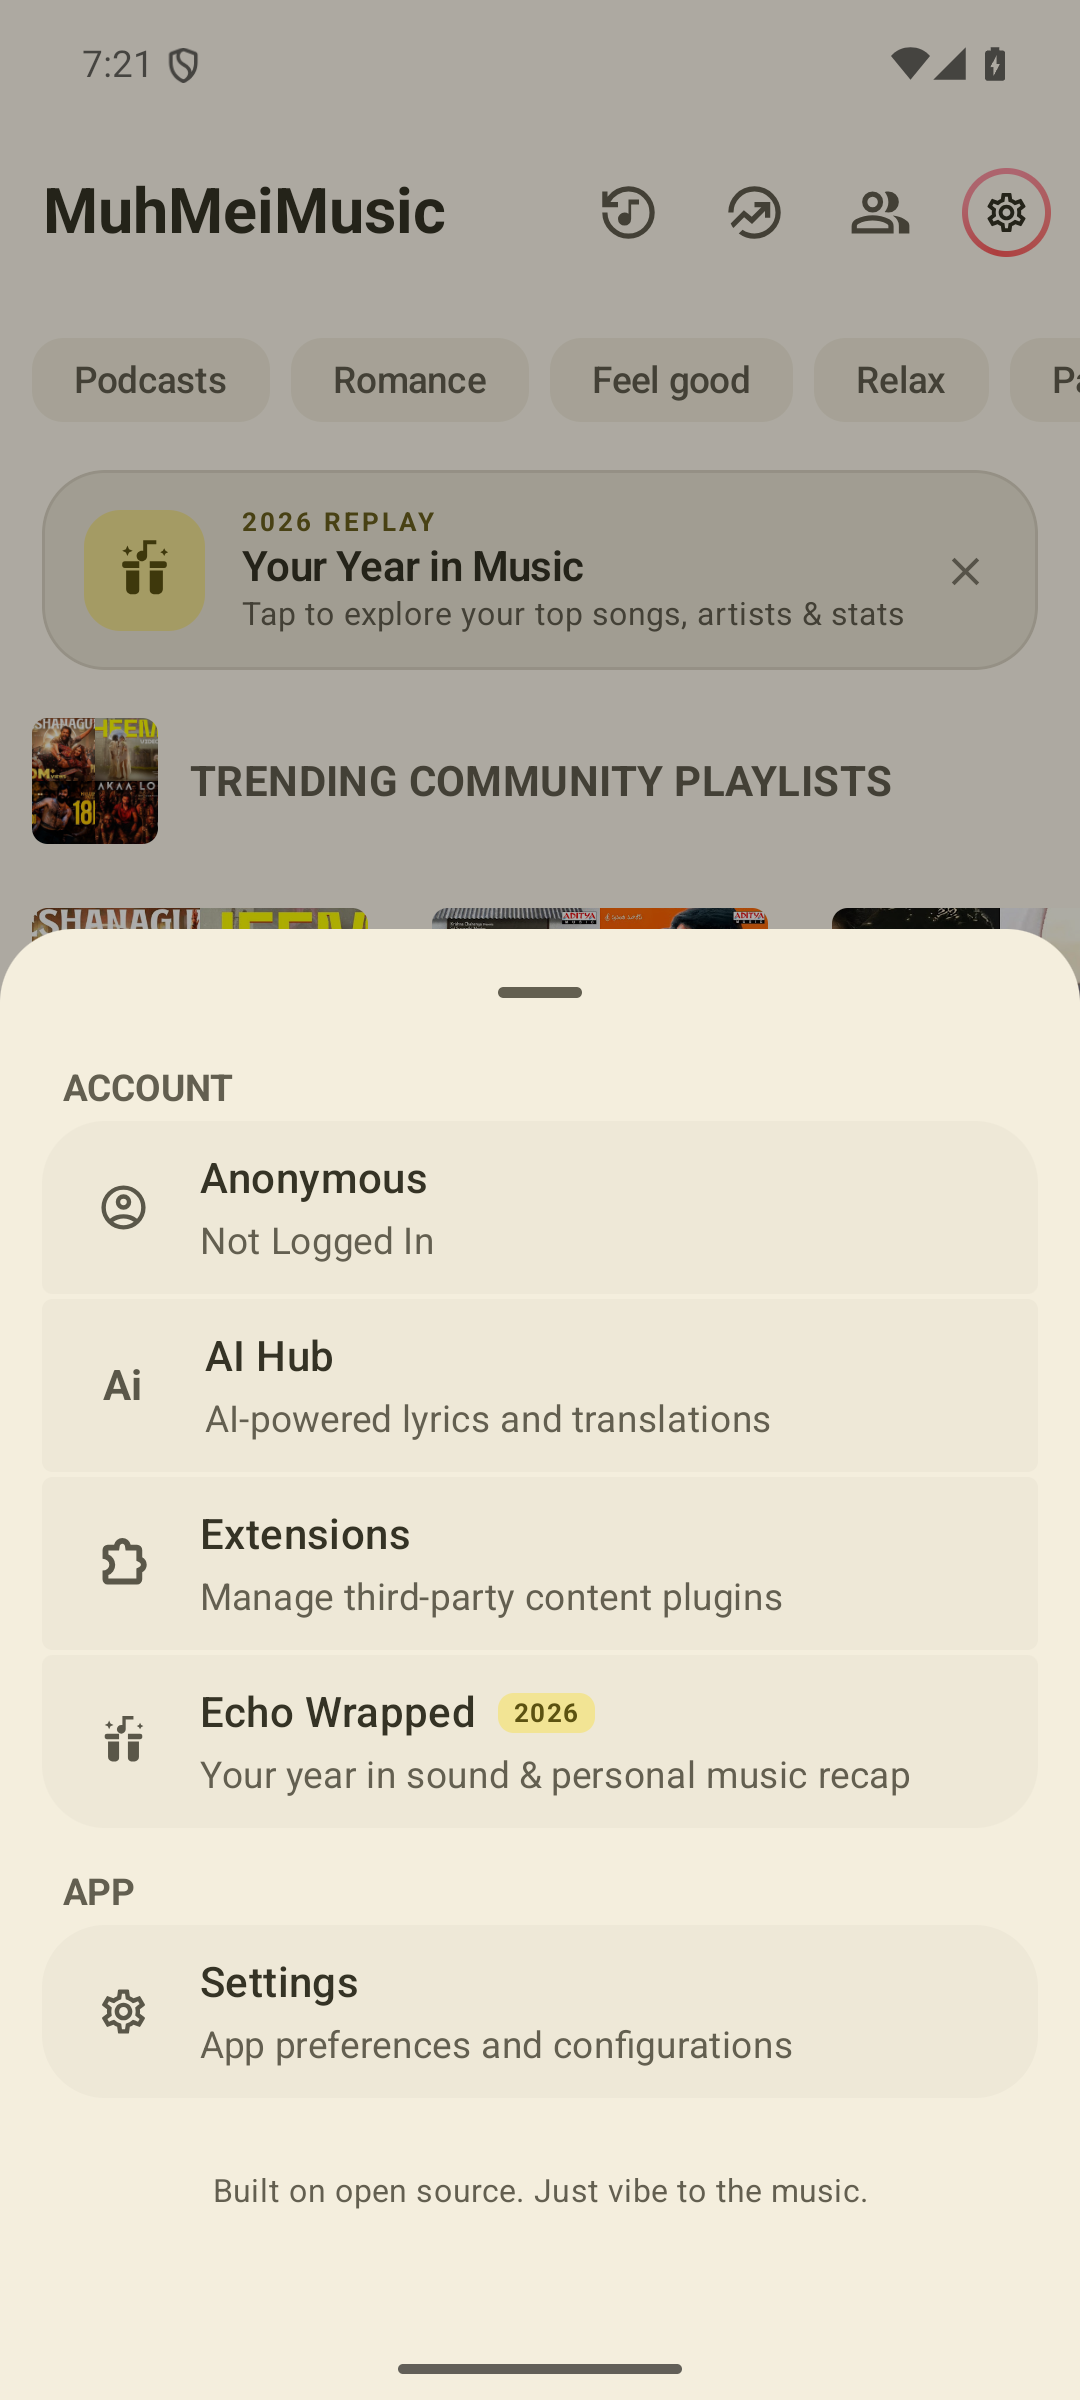
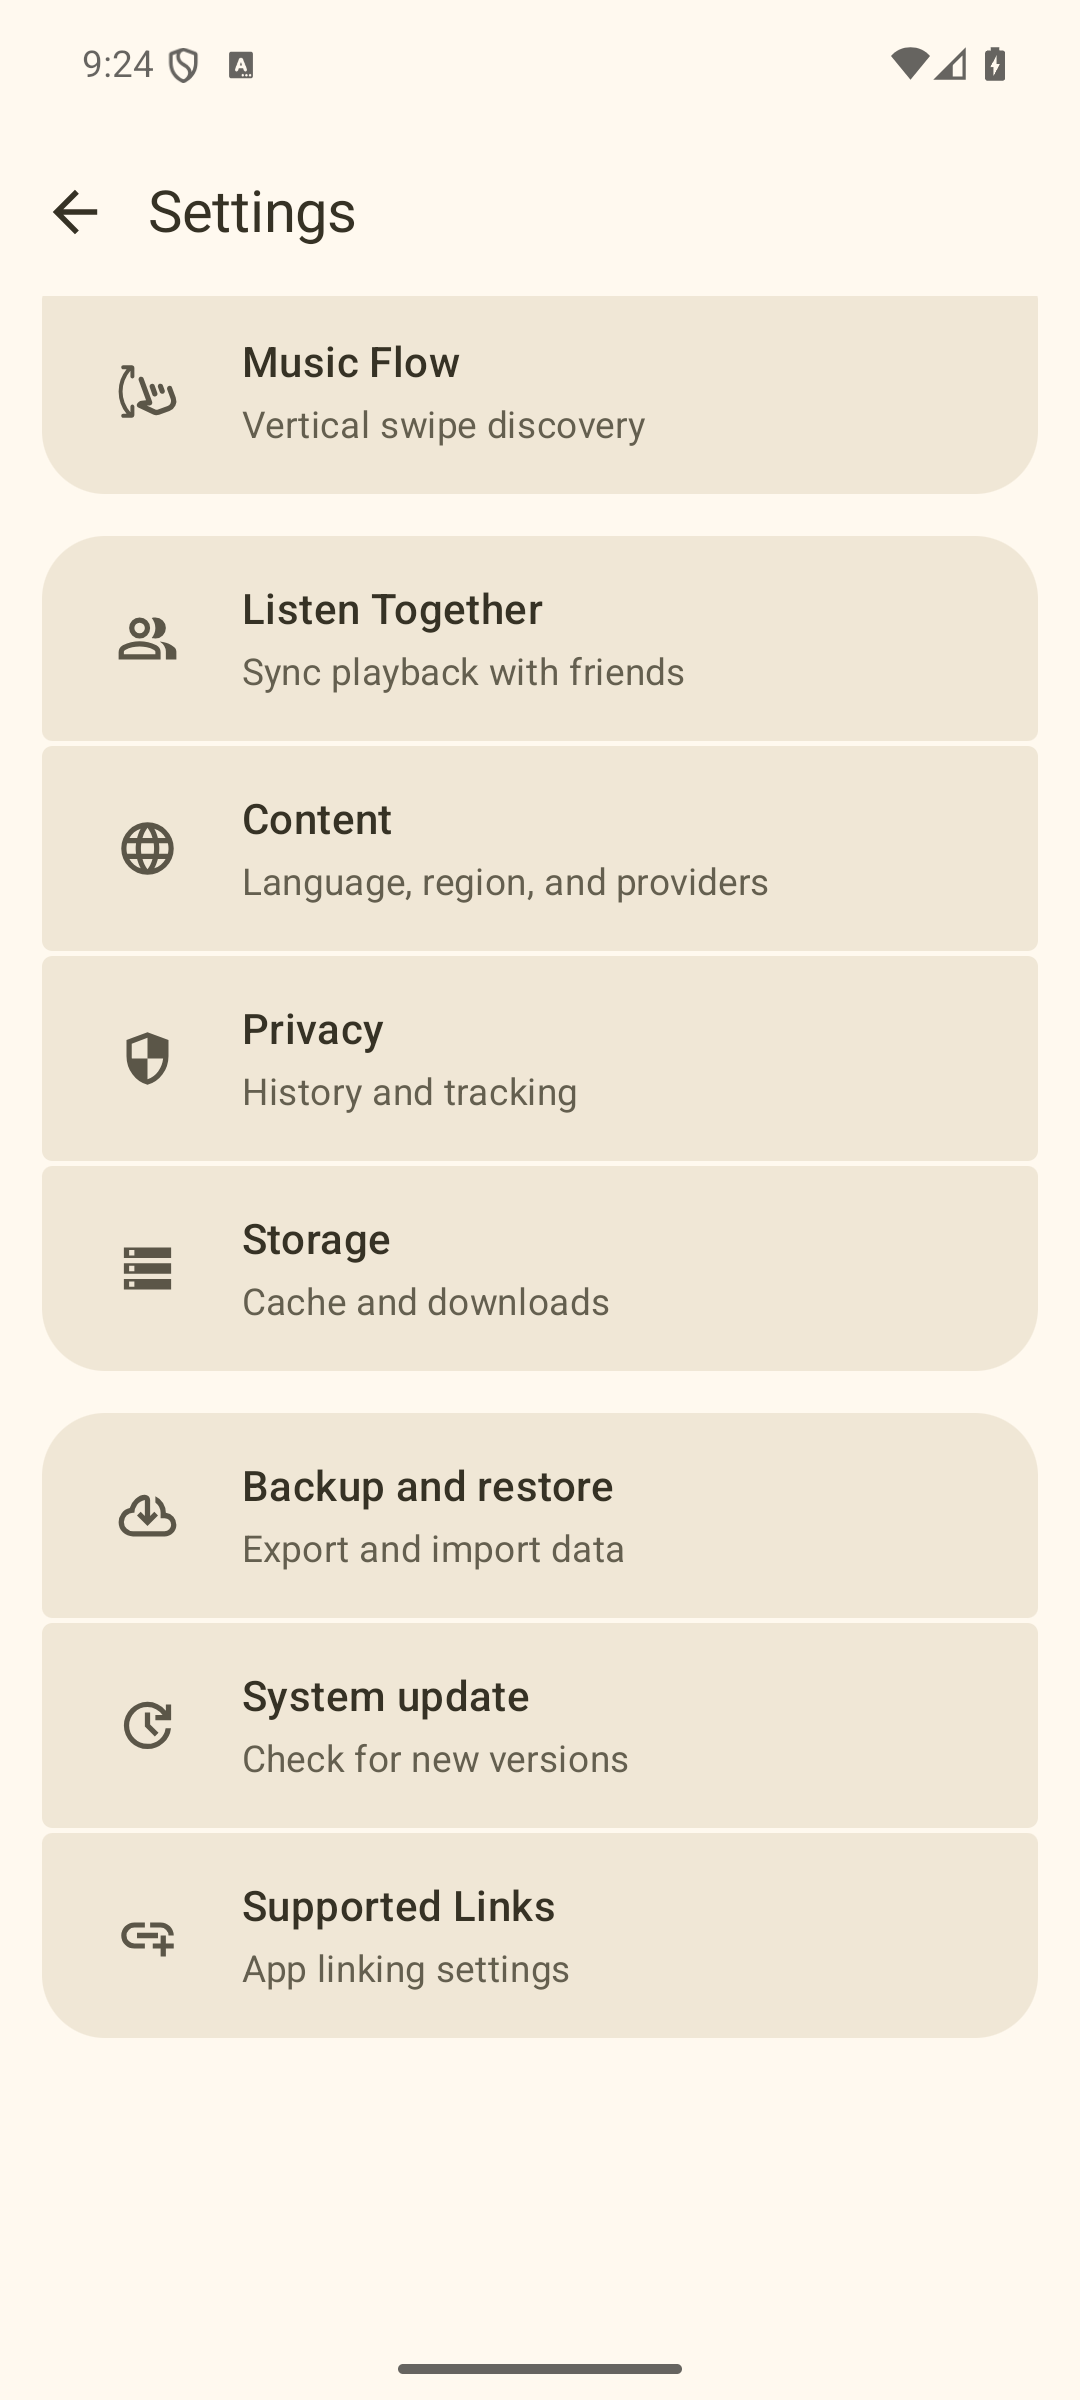
Remove About screen and Settings entry; point updater at this repository

diff --git a/README.md b/README.md
@@ -50,6 +50,17 @@ apksigner sign --ks muhmei.keystore --out MuhMeiMusic.apk apk-work/muhmei-aligne
 
 The keystore used for the published builds is not included — sign with your own key if you rebuild, and uninstall the released build first (signatures differ).
 
+## Updates
+
+The app's built-in updater (Settings → Search → "App Updates") reads this repository's latest GitHub release and offers the APK attached to it. To ship an update:
+
+1. Bump `versionName`/`versionCode` in the build and produce a new signed APK.
+2. Create a release with a tag like `v1.4.7` (the leading `v` is stripped before comparing versions).
+3. Attach the new `MuhMeiMusic.apk` to that release — the updater reads `tag_name`, `body` (changelog) and `assets[].browser_download_url`.
+4. Write the changelog in the release notes; it's shown in the in-app changelog.
+
+If no newer release exists, the app reports "Up to date" and stays quiet.
+
 ## Notes
 
 - Audio playback was verified on an Android 15 emulator: MediaSession reports `PLAYING`, position advances, 48 kHz AudioTrack holds audio focus.

diff --git a/RELEASE_NOTES.md b/RELEASE_NOTES.md
@@ -25,7 +25,7 @@ A clean, ad-free Android music player. Local library, streaming, offline downloa
 | Min Android | 8.0 (API 26) |
 | Target | Android 16 (API 36) |
 | Size | 147.8 MiB |
[2 lines of base64/hex data omitted]
 
 Verify the download with `certutil -hashfile MuhMeiMusic.apk SHA256` on Windows, or `sha256sum` on Linux/macOS.
 
